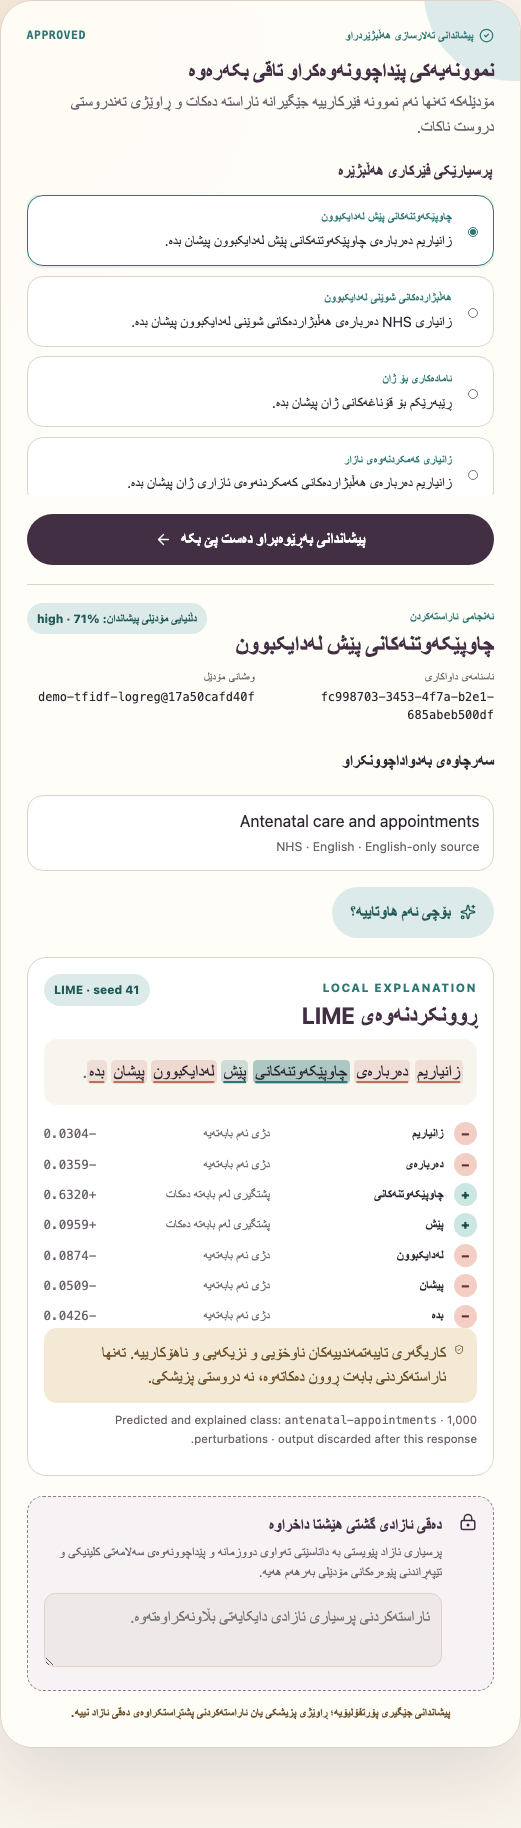
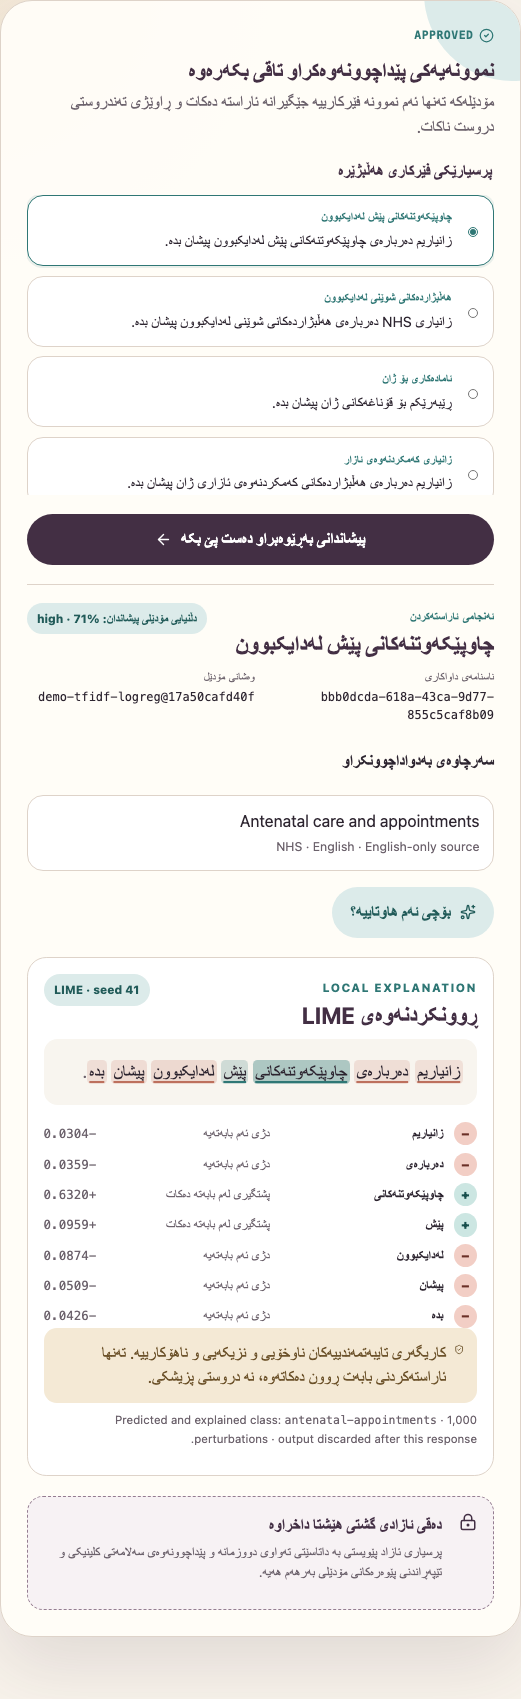
Clarify the product story for recruiters

diff --git a/app/resources/js/pages/Navigator.tsx b/app/resources/js/pages/Navigator.tsx
@@ -5,7 +5,7 @@ import {
     Database, ExternalLink, FileCheck2, GitBranch, HeartHandshake, Languages,
     LockKeyhole, Network, Play, Route, ShieldCheck, Sparkles, WifiOff,
 } from 'lucide-react';
-import { CategorySlug, Locale, categoryOrder, messages } from '../i18n';
+import { CategorySlug, Locale, messages } from '../i18n';
 
 type Source = {
     id: string;
@@ -82,7 +82,7 @@ function AppHeader({ locale, setLocale }: { locale: Locale; setLocale: (value: L
     return <>
         <div className="status-strip"><div className="container"><span className="status-dot" />{copy.status}</div></div>
         <header className="site-header"><div className="container nav-row">
-            <a className="brand" href="/"><span className="brand-mark"><Route size={19} /></span><span>Maternity Learning Navigator</span></a>
+            <a className="brand" href="/"><span className="brand-mark"><Route size={19} /></span><span>Explainable Maternity Information Router</span></a>
             <nav className="nav-links" aria-label="Primary navigation">{navigation.map(([href, key]) =>
                 <a className="nav-link" aria-current={path === href ? 'page' : undefined} href={href} key={href}>{copy.nav[key]}</a>,
             )}</nav>
@@ -174,7 +174,7 @@ function DemoPanel({ locale, online }: { locale: Locale; online: boolean }) {
     };
 
     return <div className="router-card">
-        <div className="demo-kicker"><span><CheckCircle2 size={15} />{copy.curatedDemo}</span><span><code>{reviewState}</code></span></div>
+        <div className="demo-kicker"><span><CheckCircle2 size={15} /><code>{reviewState}</code></span></div>
         <h2>{copy.demoTitle}</h2><p>{copy.demoCopy}</p>
         {samples.length > 0 ? <>
             <fieldset className="sample-list"><legend>{copy.chooseSample}</legend>{samples.map(sample =>
@@ -194,17 +194,13 @@ function DemoPanel({ locale, online }: { locale: Locale; online: boolean }) {
             <button className="secondary-button explain-button" type="button" onClick={explain} disabled={explaining}>{explaining ? copy.loadingExplanation : <><Sparkles size={16} />{copy.whyMatch}</>}</button>
         </section>}
         {explanation && <ExplanationView explanation={explanation} locale={locale} />}
-        <div className="locked-free-text"><LockKeyhole size={18} /><div><strong>{copy.freeTextTitle}</strong><p>{copy.freeTextCopy}</p><textarea disabled aria-label={copy.freeTextTitle} placeholder={copy.freeTextPlaceholder} /></div></div>
-        <p className="demo-notice">{copy.demoNotice}</p>
+        <div className="locked-free-text"><LockKeyhole size={18} /><div><strong>{copy.freeTextTitle}</strong><p>{copy.freeTextCopy}</p></div></div>
     </div>;
 }
 
 function Home({ locale, online }: { locale: Locale; online: boolean }) {
     const copy = messages[locale];
-    return <main><div className="container hero"><div><span className="eyebrow"><Sparkles size={15} />{copy.eyebrow}</span><h1>{copy.heroTitle}</h1><p className="hero-copy">{copy.heroCopy}</p><div className="trust-row"><span className="trust-chip"><ShieldCheck size={15} />{copy.noDiagnosis}</span><span className="trust-chip"><Database size={15} />{copy.noStorage}</span><span className="trust-chip"><FileCheck2 size={15} />{copy.provenance}</span></div></div><DemoPanel locale={locale} online={online} /></div>
-        <section className="section"><div className="container"><div className="section-heading"><div><span className="eyebrow">Six bounded outputs</span><h2>Educational topics, never clinical answers</h2></div><p>Each result resolves through MySQL to registered source metadata. Sorani questions transparently link to English-only sources where no reviewed Sorani equivalent is registered.</p></div><div className="category-grid">{categoryOrder.map((slug, index) => <a className="category-card" href={`/sources?category=${slug}&locale=${locale}`} key={slug}><span className="category-number">0{index + 1}</span><h3>{copy.categories[slug].label}</h3><p>{copy.categories[slug].description}</p><span className="source-link">{copy.openOriginal} →</span></a>)}</div></div></section>
-        <section className="section"><div className="container"><div className="section-heading"><div><span className="eyebrow">Recruiter evidence</span><h2>One visible, testable request path</h2></div><p>The demonstration exercises real PHP, MySQL, private Python inference and predicted-class LIME without accepting unrestricted maternity text.</p></div><div className="evidence-grid"><div className="evidence-card"><Code2 /><h3>Laravel public boundary</h3><p>Sample IDs enter a versioned REST controller; GraphQL remains read-only.</p></div><div className="evidence-card"><Network /><h3>FastAPI model boundary</h3><p>A private authenticated service loads only a checksum-matched curated-demo artifact.</p></div><div className="evidence-card"><Sparkles /><h3>Correct local explanation</h3><p>LIME receives the actual predicted class, fixed seed 41 and returns transient source spans.</p></div></div></div></section>
-    </main>;
+    return <main><div className="container hero"><div><span className="eyebrow"><Languages size={15} />{copy.eyebrow}</span><h1>Explainable Maternity Information Router</h1><div className="trust-row"><span className="trust-chip"><ShieldCheck size={15} />{copy.noDiagnosis}</span><span className="trust-chip"><Database size={15} />{copy.noStorage}</span><span className="trust-chip"><FileCheck2 size={15} />{copy.provenance}</span></div></div><DemoPanel locale={locale} online={online} /></div></main>;
 }
 
 function Sources({ locale }: { locale: Locale }) {
@@ -302,7 +298,7 @@ function PolicyPage({ type }: { type: 'privacy' | 'accessibility' }) {
 }
 
 function Footer() {
-    return <footer className="site-footer"><div className="container footer-row"><div><strong>Maternity Learning Navigator</strong><br />Independent portfolio demonstration by Karlo Nahro.<br />Not affiliated with or endorsed by the NHS.</div><div className="footer-links"><a href="/privacy">Privacy</a><a href="/accessibility">Accessibility</a><a href="/evidence">Evidence</a><a href={repo} target="_blank" rel="noreferrer"><GitBranch size={14} />GitHub repository</a></div></div></footer>;
+    return <footer className="site-footer"><div className="container footer-row"><div><strong>Explainable Maternity Information Router</strong><br />Independent portfolio demonstration by Karlo Nahro.<br />Not affiliated with or endorsed by the NHS.</div><div className="footer-links"><a href="/privacy">Privacy</a><a href="/accessibility">Accessibility</a><a href="/evidence">Evidence</a><a href={repo} target="_blank" rel="noreferrer"><GitBranch size={14} />GitHub repository</a></div></div></footer>;
 }
 
 export default function Navigator() {
@@ -326,5 +322,5 @@ export default function Navigator() {
                     : path === '/privacy' ? <PolicyPage type="privacy" />
                         : path === '/accessibility' ? <PolicyPage type="accessibility" />
                             : <Home locale={locale} online={online} />, [path, locale, online]);
-    return <div className="app-shell" dir={messages[locale].direction}><Head title="Maternity Learning Navigator" /><AppHeader locale={locale} setLocale={setLocale} />{content}<Footer /></div>;
+    return <div className="app-shell" dir={messages[locale].direction}><Head title="Explainable Maternity Information Router" /><AppHeader locale={locale} setLocale={setLocale} />{content}<Footer /></div>;
 }

diff --git a/app/vite.config.ts b/app/vite.config.ts
@@ -11,7 +11,7 @@ export default defineConfig({
             registerType: 'autoUpdate',
             scope: '/',
             manifest: {
-                name: 'Maternity Learning Navigator',
+                name: 'Explainable Maternity Information Router',
                 short_name: 'Learning Navigator',
                 description: 'Review-gated maternity learning resource routing.',
                 theme_color: '#432f44',

diff --git a/app/resources/views/app.blade.php b/app/resources/views/app.blade.php
@@ -7,7 +7,7 @@
     <meta name="description" content="A review-gated multilingual maternity learning resource router with transparent AI evidence.">
     <meta name="robots" content="index,follow">
     <link rel="icon" href="/navigator-icon.svg" type="image/svg+xml">
-    <title inertia>{{ config('app.name', 'Maternity Learning Navigator') }}</title>
+    <title inertia>{{ config('app.name', 'Explainable Maternity Information Router') }}</title>
     @viteReactRefresh
     @vite(['resources/css/app.css', 'resources/js/app.tsx'])
     @inertiaHead

diff --git a/app/tests/Feature/NavigatorApiTest.php b/app/tests/Feature/NavigatorApiTest.php
@@ -43,7 +43,7 @@ class NavigatorApiTest extends TestCase
         $this->get('/api-docs')->assertOk();
         $this->get('/api/v1/openapi.json')
             ->assertOk()
-            ->assertJsonPath('info.title', 'Maternity Learning Navigator API');
+            ->assertJsonPath('info.title', 'Explainable Maternity Information Router API');
     }
 
     public function test_forwarded_https_scheme_is_trusted_for_cloud_asset_urls(): void

diff --git a/ml-service/app/main.py b/ml-service/app/main.py
@@ -26,7 +26,7 @@ demo_registry = ModelRegistry(
     required_release_status="demo_approved",
 )
 app = FastAPI(
-    title="Maternity Learning Navigator model service",
+    title="Explainable Maternity Information Router model service",
     version="1.0.0-review-gated",
     docs_url=None,
     redoc_url=None,

diff --git a/ml-service/app/__init__.py b/ml-service/app/__init__.py
@@ -1,1 +1,1 @@
-"""Maternity Learning Navigator model service."""
+"""Explainable Maternity Information Router model service."""

diff --git a/README.md b/README.md
@@ -1,6 +1,8 @@
-# Maternity Learning Navigator
+# Explainable Maternity Information Router
 
-A recruiter-facing demonstration of a real PHP → Python → model → LIME → PHP → React request path, backed by MySQL source provenance and both REST and read-only GraphQL APIs.
+A bilingual portfolio demonstration that routes reviewed English and Sorani maternity-information questions to one of six educational topics and explains each match with LIME.
+
+Under the hood, Laravel/PHP orchestrates MySQL provenance, a private FastAPI model service, versioned REST endpoints and a read-only GraphQL API.
 
 **Live demonstration:** [app-production-fe71.up.railway.app](https://app-production-fe71.up.railway.app)
 
@@ -29,7 +31,7 @@ Click any image to inspect it at full size.
 
 <table>
   <tr>
-    <td width="50%"><strong>Approved English navigator</strong><br><a href="docs/screenshots/home.png"><img src="docs/screenshots/home.png" alt="Approved English navigator"></a></td>
+    <td width="50%"><strong>Approved English routing demo</strong><br><a href="docs/screenshots/home.png"><img src="docs/screenshots/home.png" alt="Approved English routing demo"></a></td>
     <td width="50%"><strong>Predicted-class LIME</strong><br><a href="docs/screenshots/lime.png"><img src="docs/screenshots/lime.png" alt="Predicted-class LIME explanation"></a></td>
   </tr>
   <tr>

diff --git a/governance/PROJECT_OWNER_DATA_DECISION.md b/governance/PROJECT_OWNER_DATA_DECISION.md
@@ -1,6 +1,6 @@
 # Project-owner bilingual data decision
 
-- Project: Maternity Learning Navigator
+- Project: Explainable Maternity Information Router
 - Project owner: Karlo Nahro
 - Decision date: 11 August 2026
 - Dataset reviewed: `resources/question_candidates.csv`
